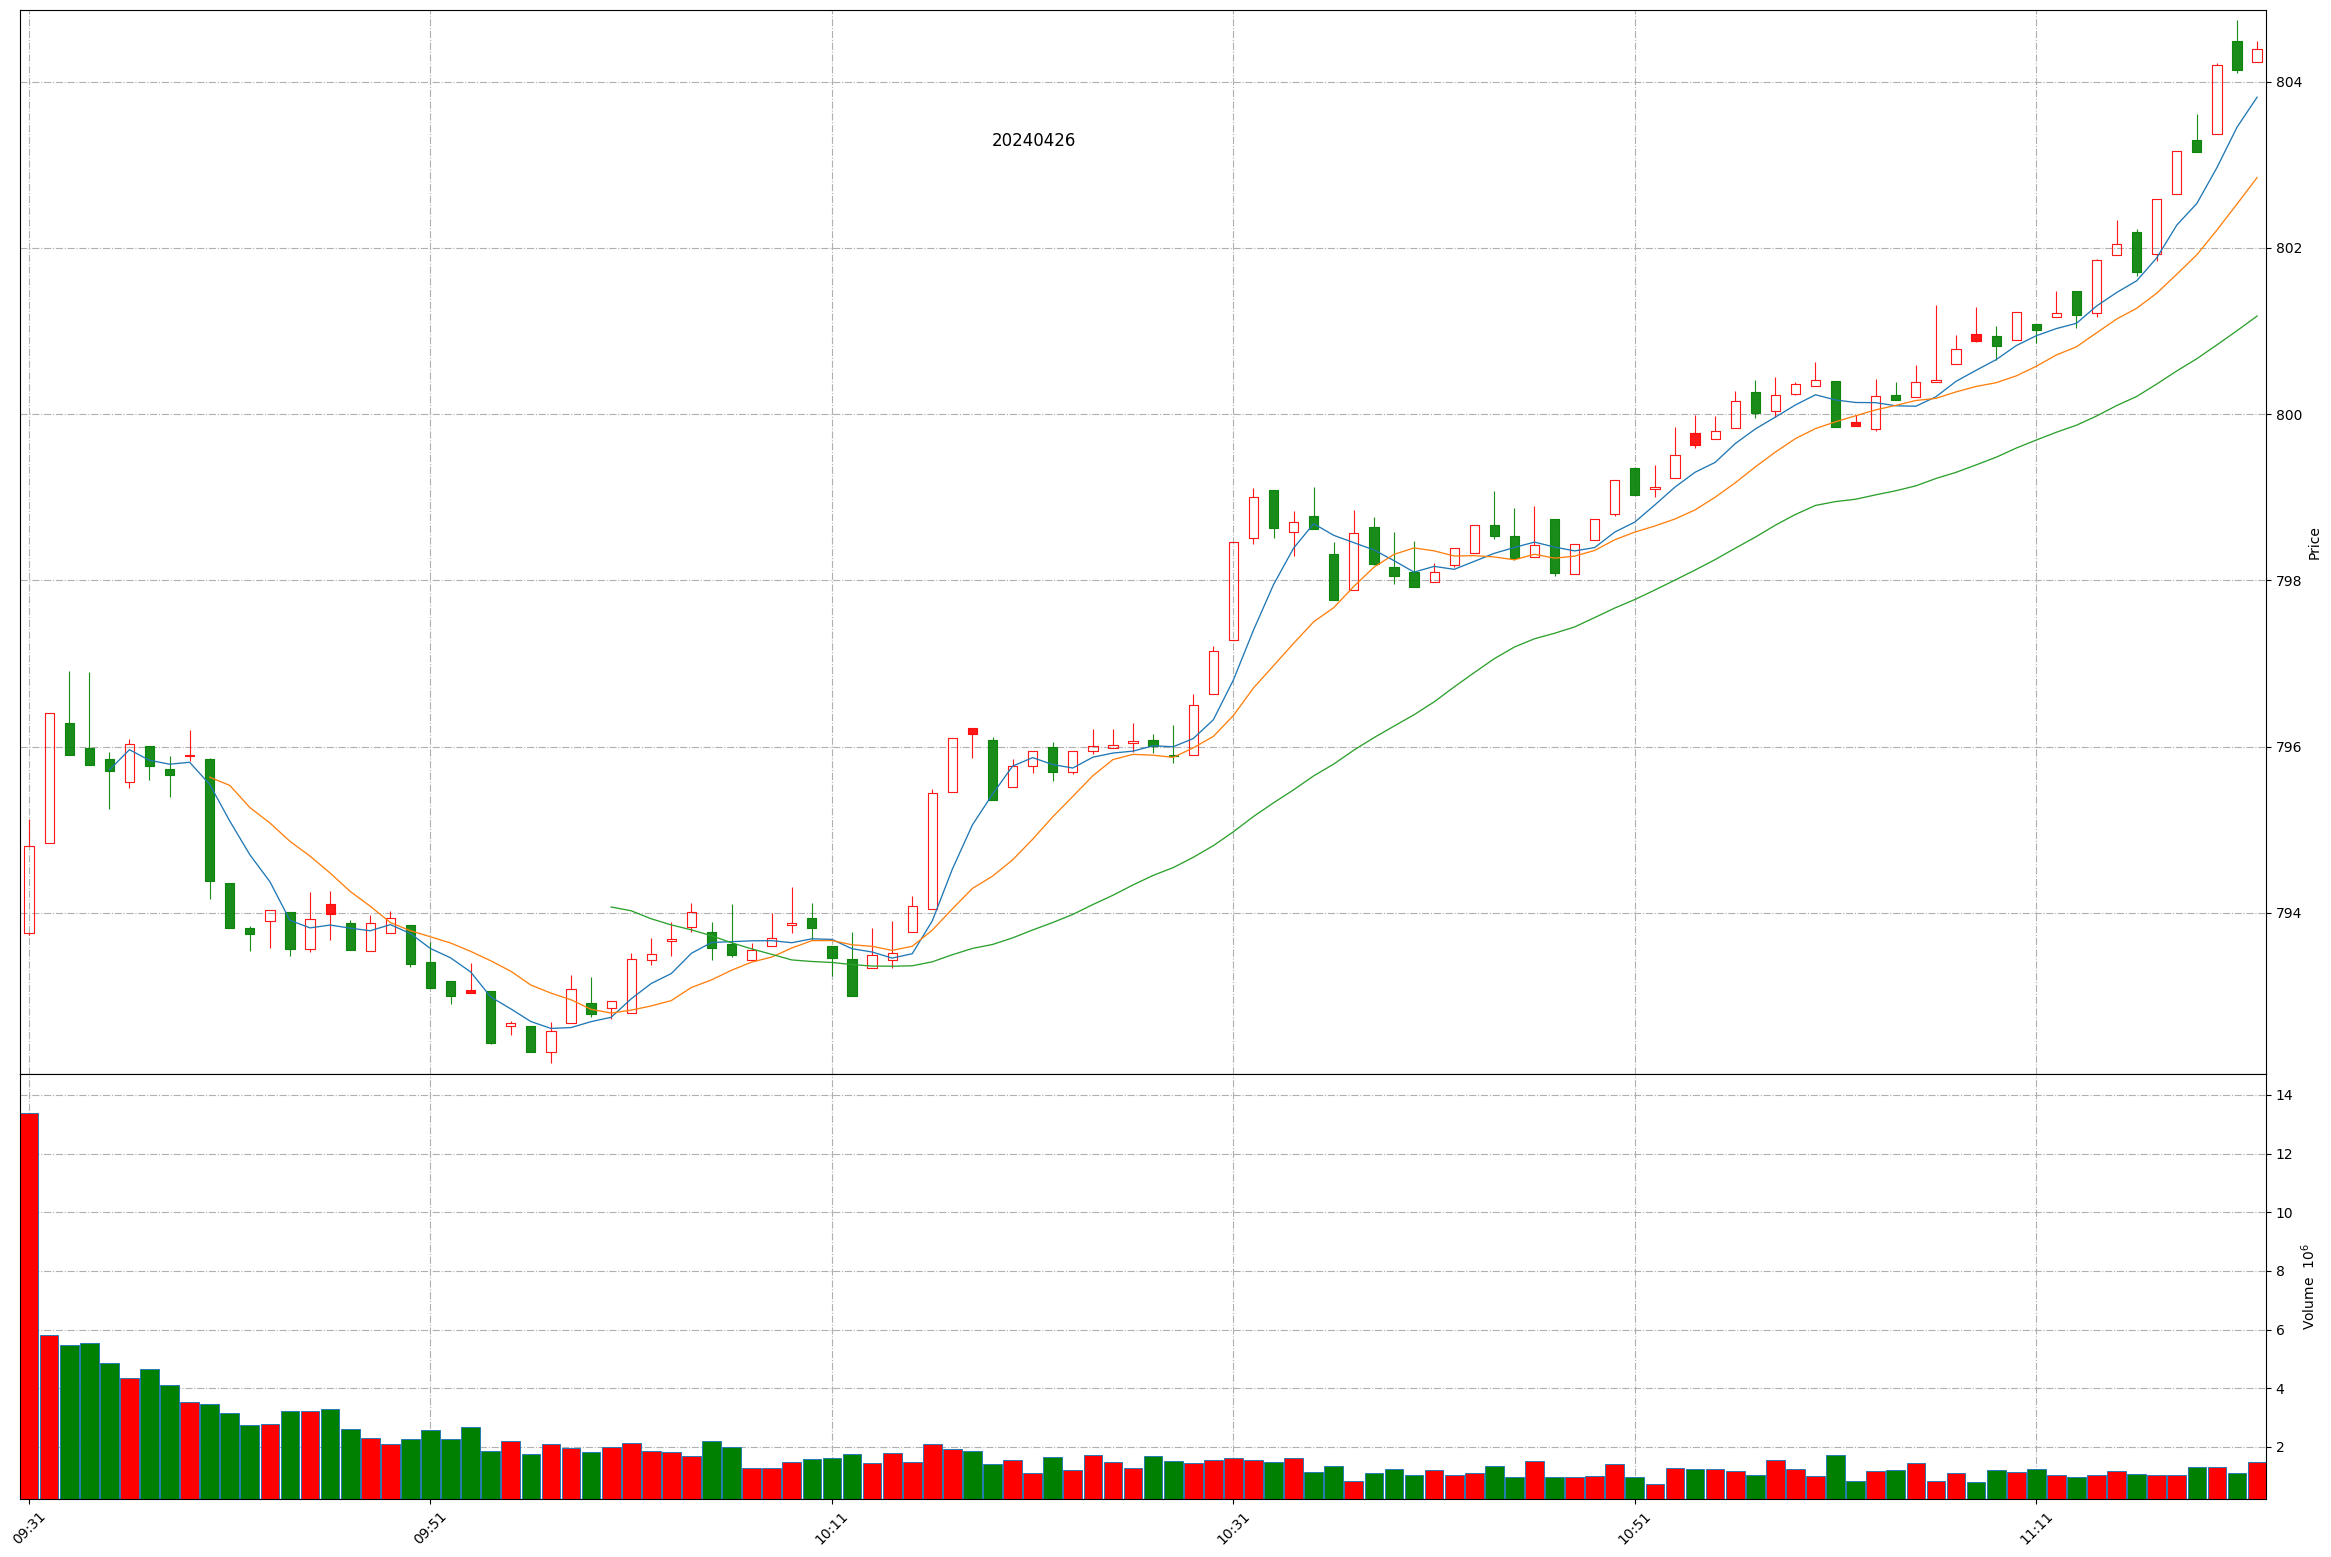
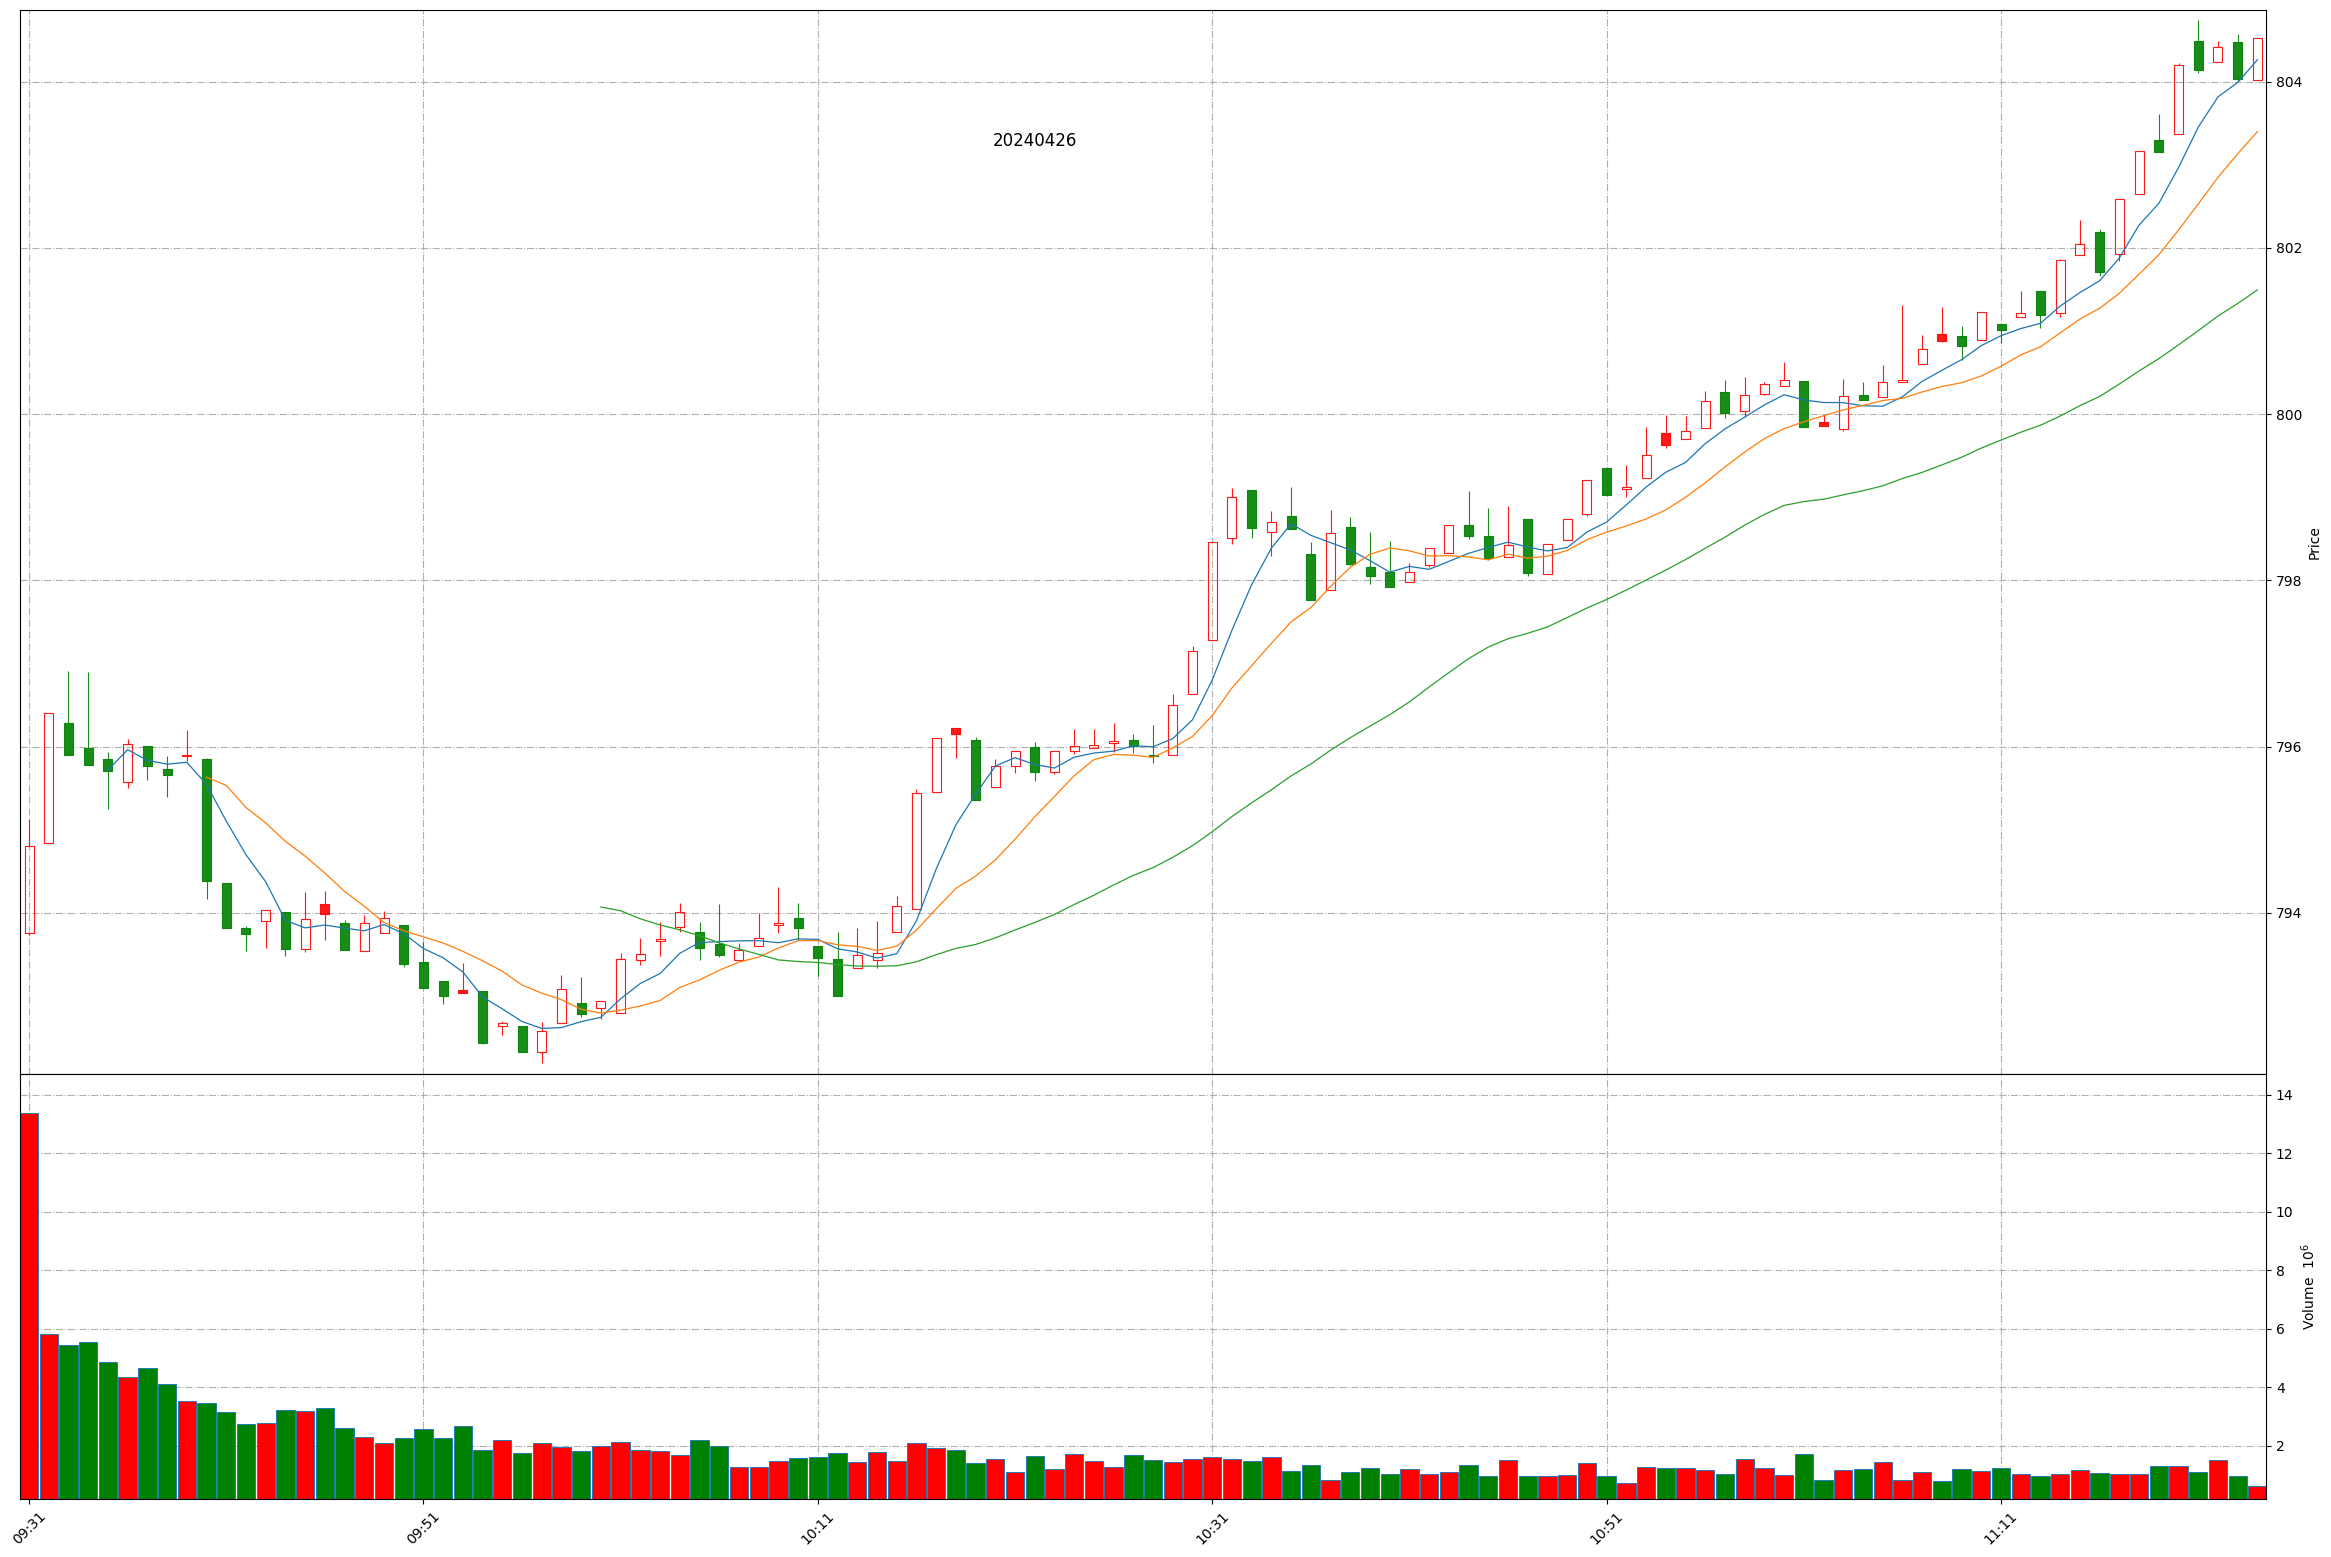
Github action update at 2024-04-26 11:23:49.

diff --git a/README.md b/README.md
@@ -1,11 +1,11 @@
 
 # Daily-A-share-market-quotes 每日 A 股指数（5min 更新）- 20240426
 
-### 上证指数 20240426 11:22
+### 上证指数 20240426 11:23
 ![](./fig/2024/4/20240426-sh000001.png)
 
-### 深证成指 20240426 11:22
+### 深证成指 20240426 11:23
 ![](./fig/2024/4/20240426-sz399001.png)
 
-### 北证50 20240426 11:22
+### 北证50 20240426 11:23
 ![](./fig/2024/4/20240426-bj899050.png)
